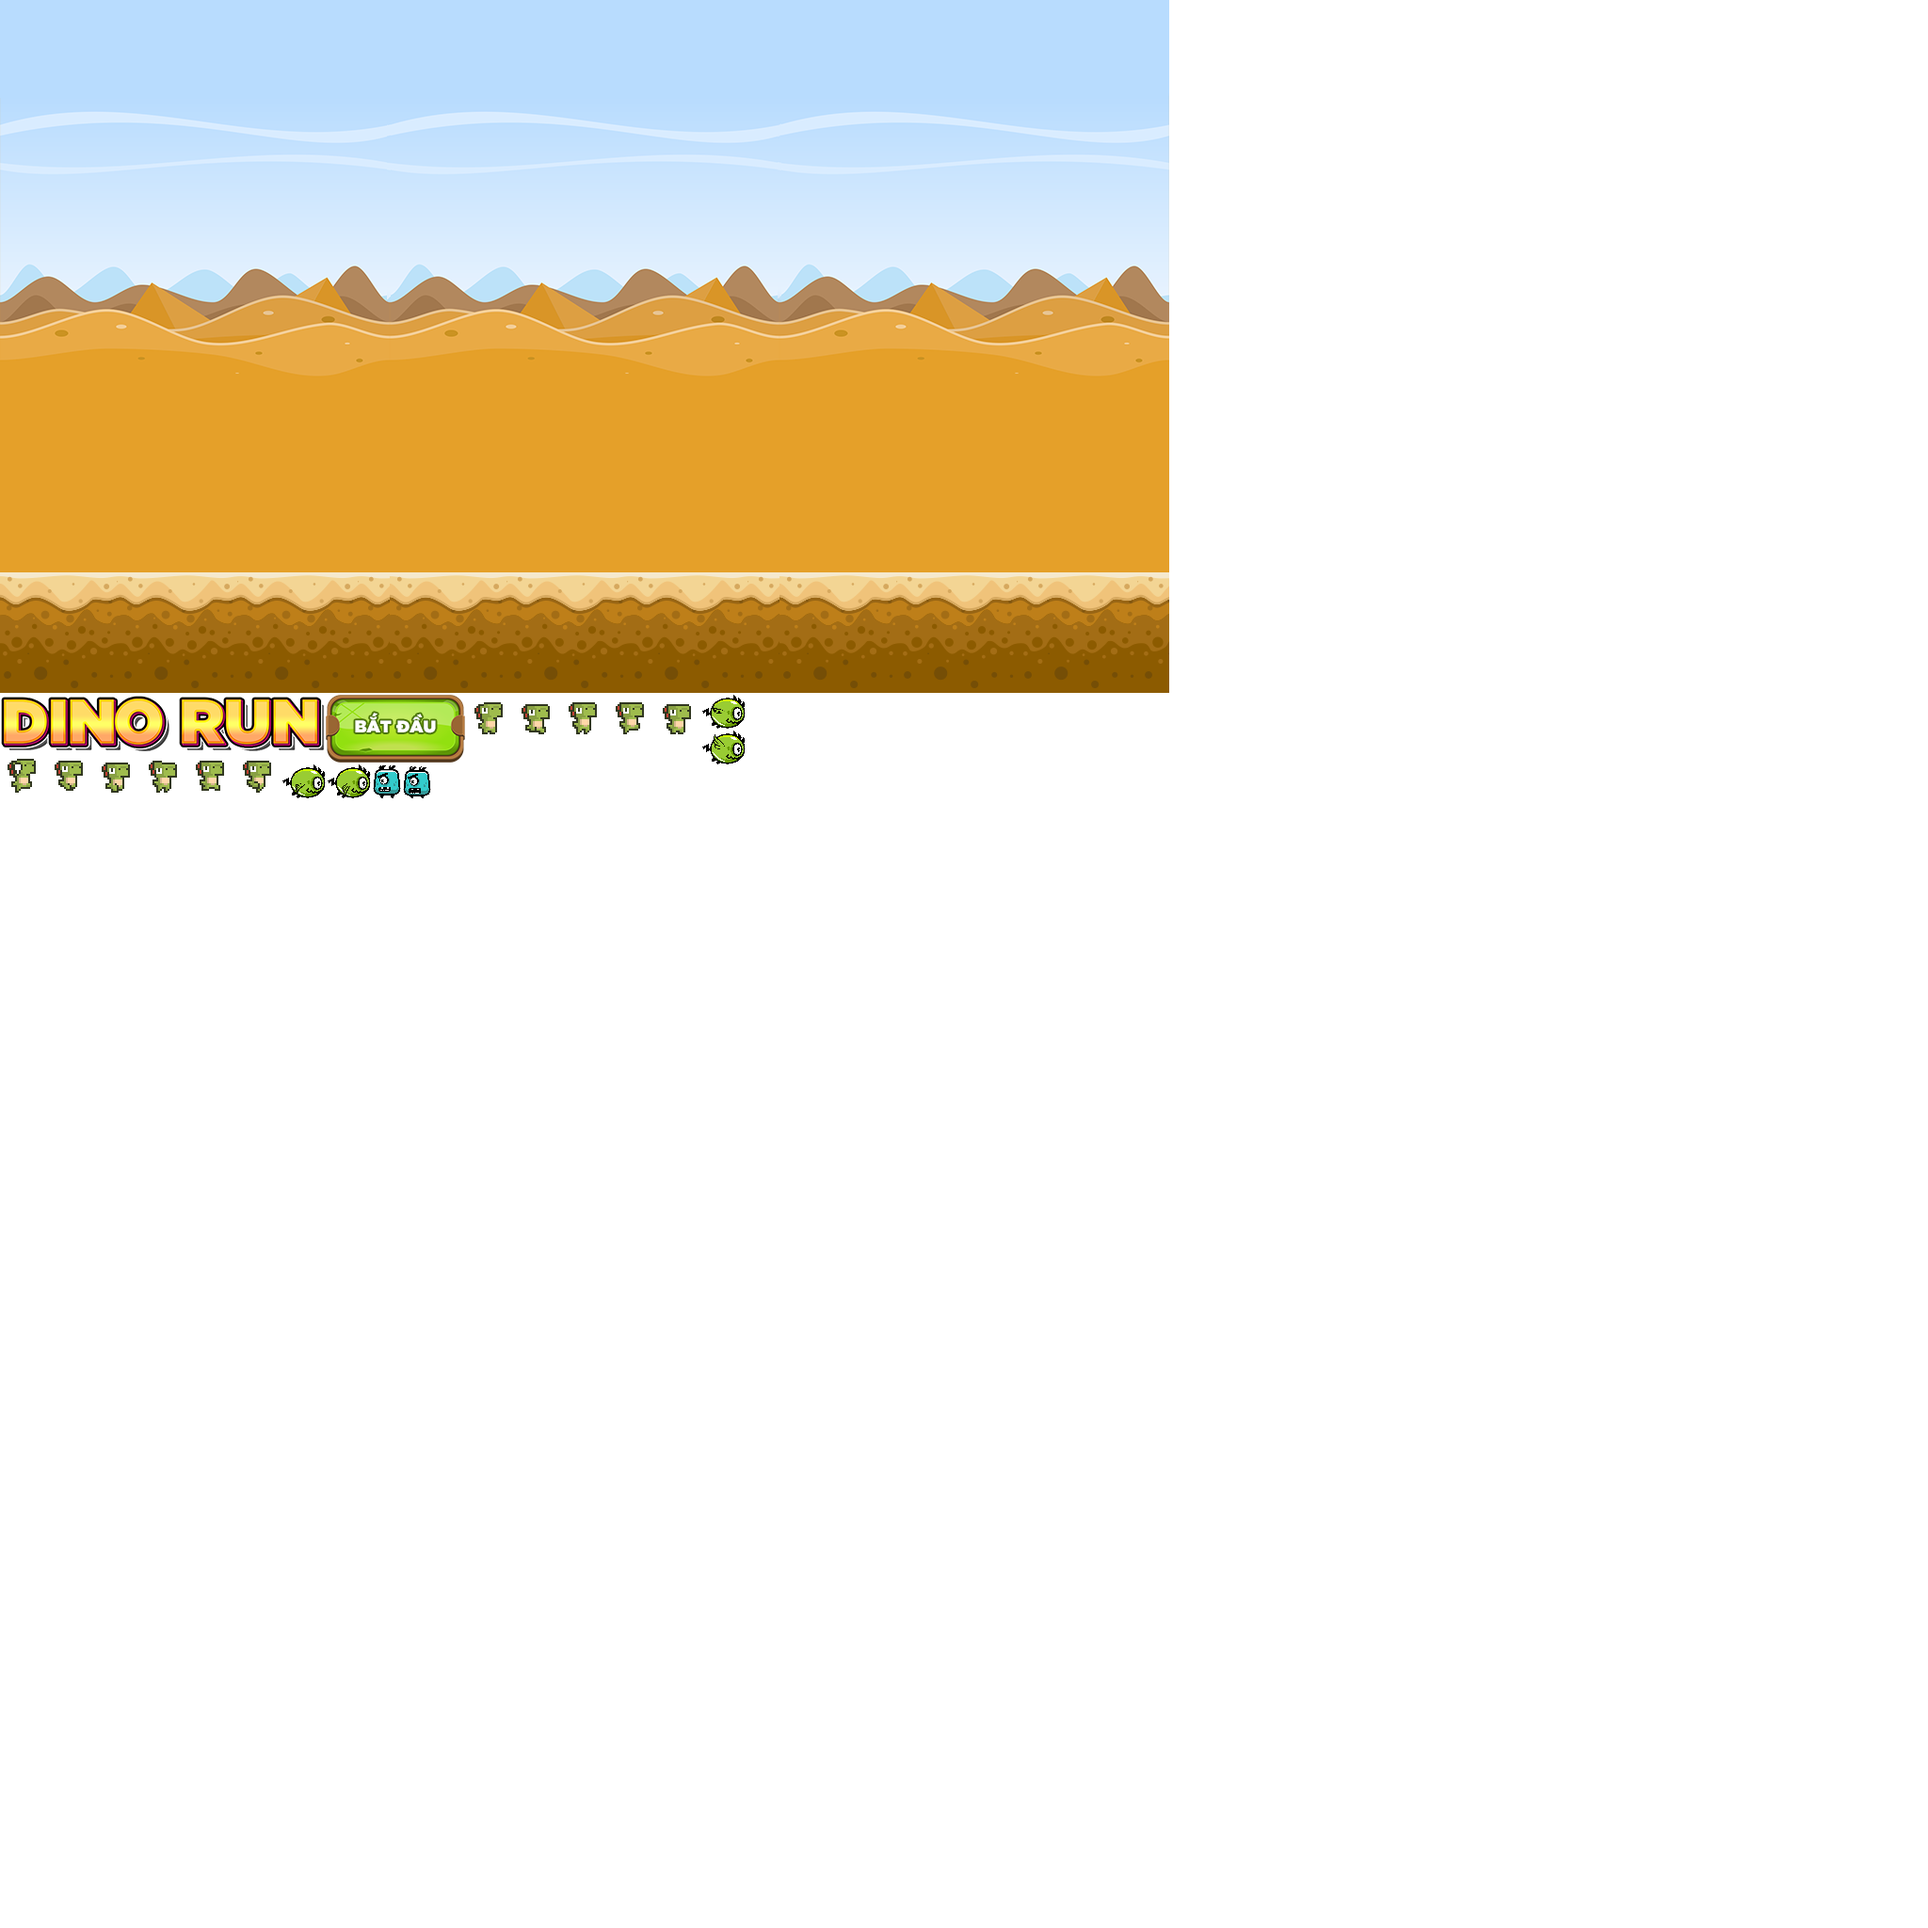
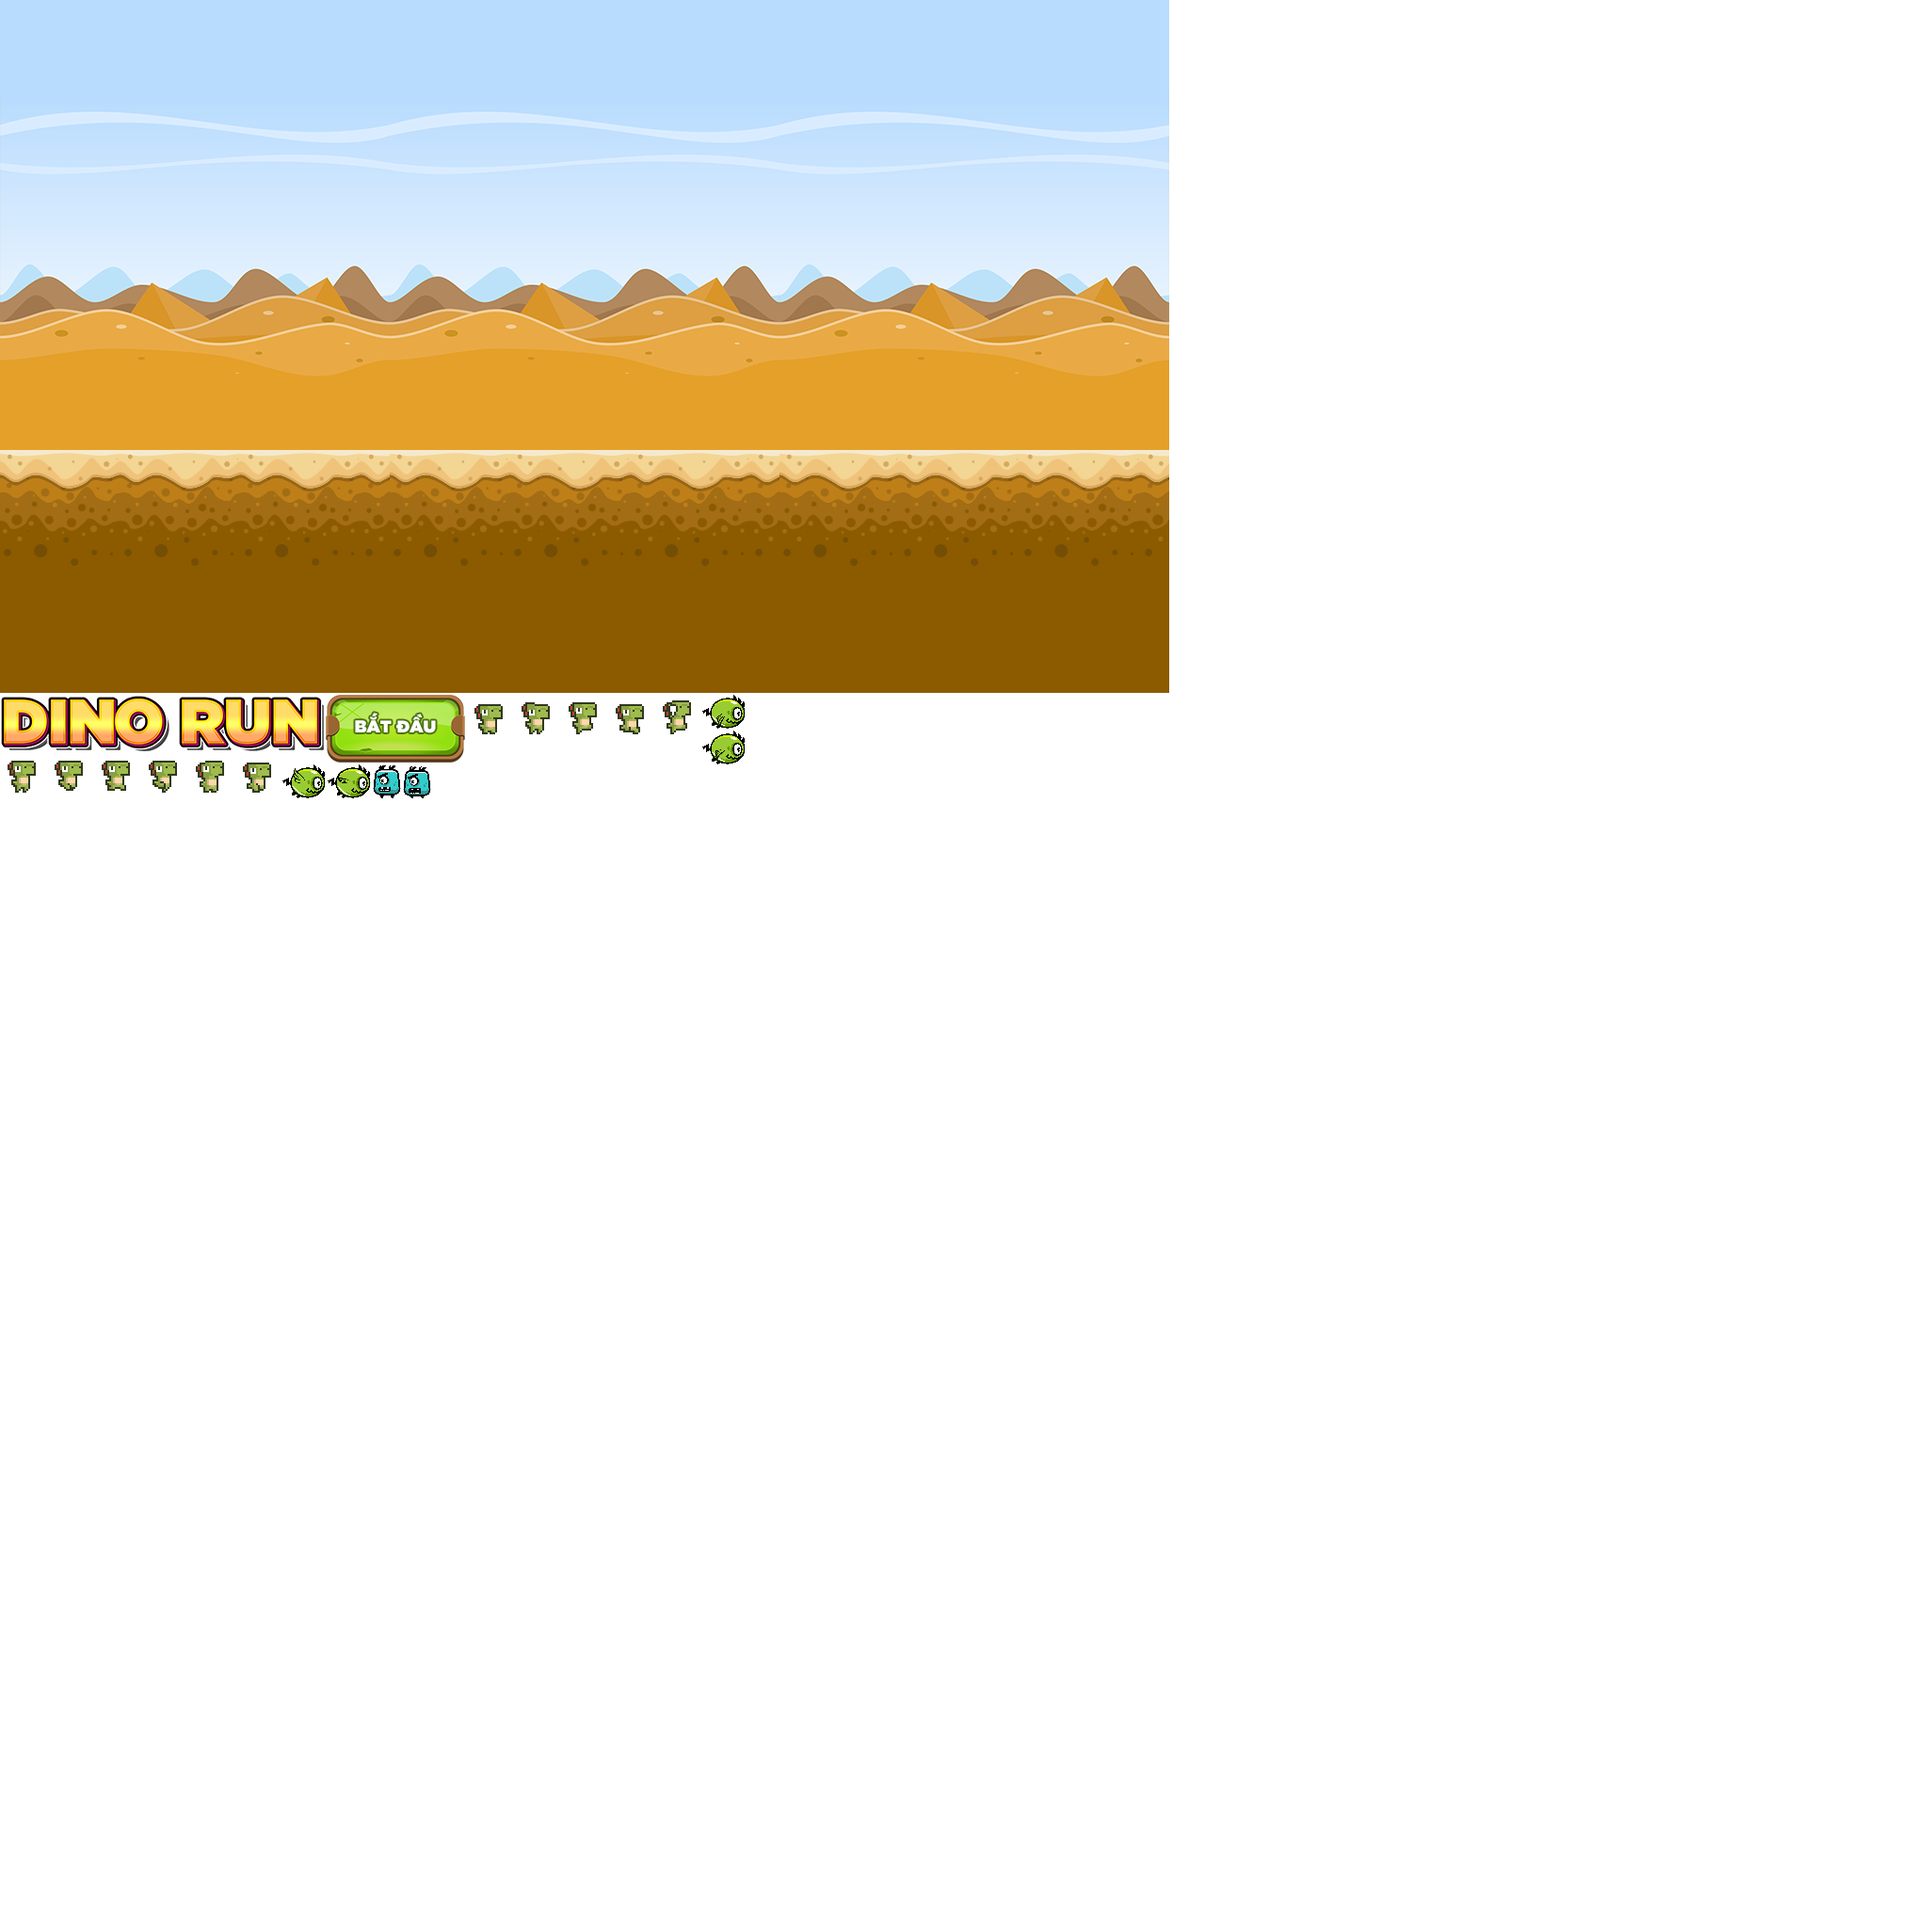
updatedino

Changed region(s): [[0.0, 0.2188, 0.625, 0.375]]

diff --git a/gmes/dinorun/dinorun.html b/gmes/dinorun/dinorun.html
@@ -30,7 +30,7 @@
 var p; // shortcut to reference prototypes
 var lib={};var ss={};var img={};
 lib.ssMetadata = [
-		{name:"dinorun_atlas_P_", frames: [[0,0,1242,736],[0,800,48,48],[50,800,48,48],[100,800,48,48],[646,738,48,48],[200,800,48,48],[546,738,48,48],[250,800,48,48],[596,738,48,48],[496,738,48,48],[696,738,48,48],[150,800,48,48],[396,812,30,36],[428,812,30,36],[746,776,46,36],[746,738,46,36],[348,812,46,36],[300,812,46,36],[346,738,148,72],[0,738,344,60]]}
+		{name:"dinorun_atlas_P_", frames: [[0,0,1242,736],[696,738,48,48],[50,800,48,48],[250,800,48,48],[596,738,48,48],[100,800,48,48],[646,738,48,48],[150,800,48,48],[0,800,48,48],[200,800,48,48],[496,738,48,48],[546,738,48,48],[396,812,30,36],[428,812,30,36],[300,812,46,36],[348,812,46,36],[746,738,46,36],[746,776,46,36],[346,738,148,72],[0,738,344,60]]}
 ];
 // symbols:
 (lib.bg = function() {
@@ -305,7 +305,7 @@ p.nominalBounds = new cjs.Rectangle(-24,-24,48,48);
 			title.visible = false;
 			start_btn.visible = false;
 			cta.visible = true;
-			dino.y = 590;
+			dino.y = 460;
 			dino.gotoAndStop("run");
 			canJump = true;
 			movingLoop(bg,3,0,-828);
@@ -320,10 +320,12 @@ p.nominalBounds = new cjs.Rectangle(-24,-24,48,48);
 			if(startGame == true){
 				if (ewalk.hitTest(dino_ewpt.x, dino_ewpt.y)){
 					startGame = false;
+					cta.visible = false;
 					root.resetGame();
 				}
 				if (efly.hitTest(dino_efpt.x, dino_efpt.y)){
 					startGame = false;
+					cta.visible = false;
 					root.resetGame();
 				}
 			}
@@ -333,7 +335,6 @@ p.nominalBounds = new cjs.Rectangle(-24,-24,48,48);
 			dino.x = 62;
 			ewalk.x = 450;
 			efly.x = 450;
-			cta.visible = false;
 			dino.gotoAndStop("hurt");
 			TweenLite.to(dino, 0.5, {y:760,ease: Power3.easeIn,onComplete:function(){setTimeout(function(){title.visible = true;start_btn.visible = true;}, 3000);}});
 		}
@@ -359,15 +360,15 @@ p.nominalBounds = new cjs.Rectangle(-24,-24,48,48);
 	this.efly = new lib.efly();
 	this.efly.name = "efly";
 	this.efly.parent = this;
-	this.efly.setTransform(450,548);
+	this.efly.setTransform(450,418);
 	this.ewalk = new lib.ewalk();
 	this.ewalk.name = "ewalk";
 	this.ewalk.parent = this;
-	this.ewalk.setTransform(450,590);
+	this.ewalk.setTransform(450,460);
 	this.dino = new lib.dino_all();
 	this.dino.name = "dino";
 	this.dino.parent = this;
-	this.dino.setTransform(62,590);
+	this.dino.setTransform(62,460);
 	this.timeline.addTween(cjs.Tween.get({}).to({state:[{t:this.dino},{t:this.ewalk},{t:this.efly}]}).wait(1));
 	// tite
 	this.title = new lib.title_1();
@@ -385,6 +386,7 @@ p.nominalBounds = new cjs.Rectangle(-24,-24,48,48);
 	this.cta = new lib.dummy_btn();
 	this.cta.name = "cta";
 	this.cta.parent = this;
+	this.cta.setTransform(0,476.2,1,0.353,0,0,0,0,3.4);
 	new cjs.ButtonHelper(this.cta, 0, 1, 2, false, new lib.dummy_btn(), 3);
 	this.timeline.addTween(cjs.Tween.get(this.cta).wait(1));
 	// bgloop
@@ -404,7 +406,7 @@ lib.properties = {
 	color: "#FFFFFF",
 	opacity: 1.00,
 	manifest: [
-		{src:"dinorun_atlas_P_.png?1592147314968", id:"dinorun_atlas_P_"}
+		{src:"dinorun_atlas_P_.png?1592149463252", id:"dinorun_atlas_P_"}
 	],
 	preloads: []
 };
@@ -484,7 +486,6 @@ function handleComplete(evt,comp) {
 	//Registers the "tick" event listener.
 	fnStartAnimation = function() {
 		stage.addChild(exportRoot);
-		createjs.Ticker.timingMode = createjs.Ticker.RAF;
 		createjs.Ticker.setFPS(lib.properties.fps);
 		createjs.Ticker.addEventListener("tick", stage);
 	}	    
